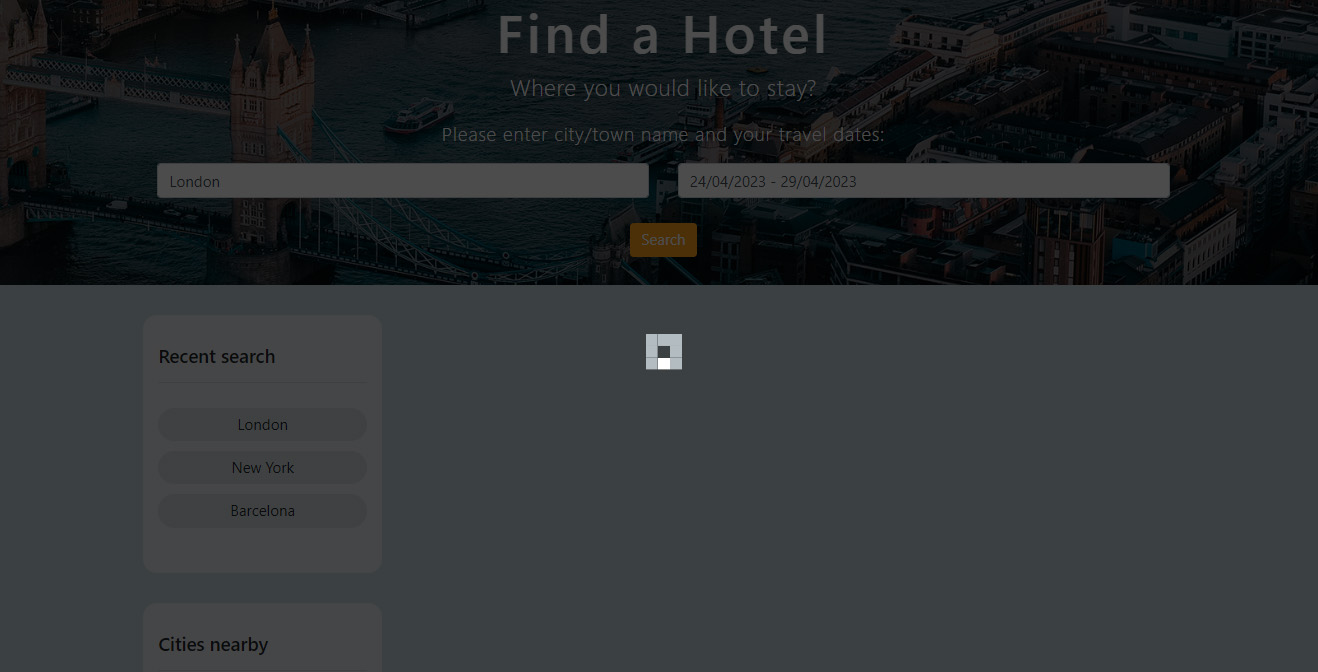
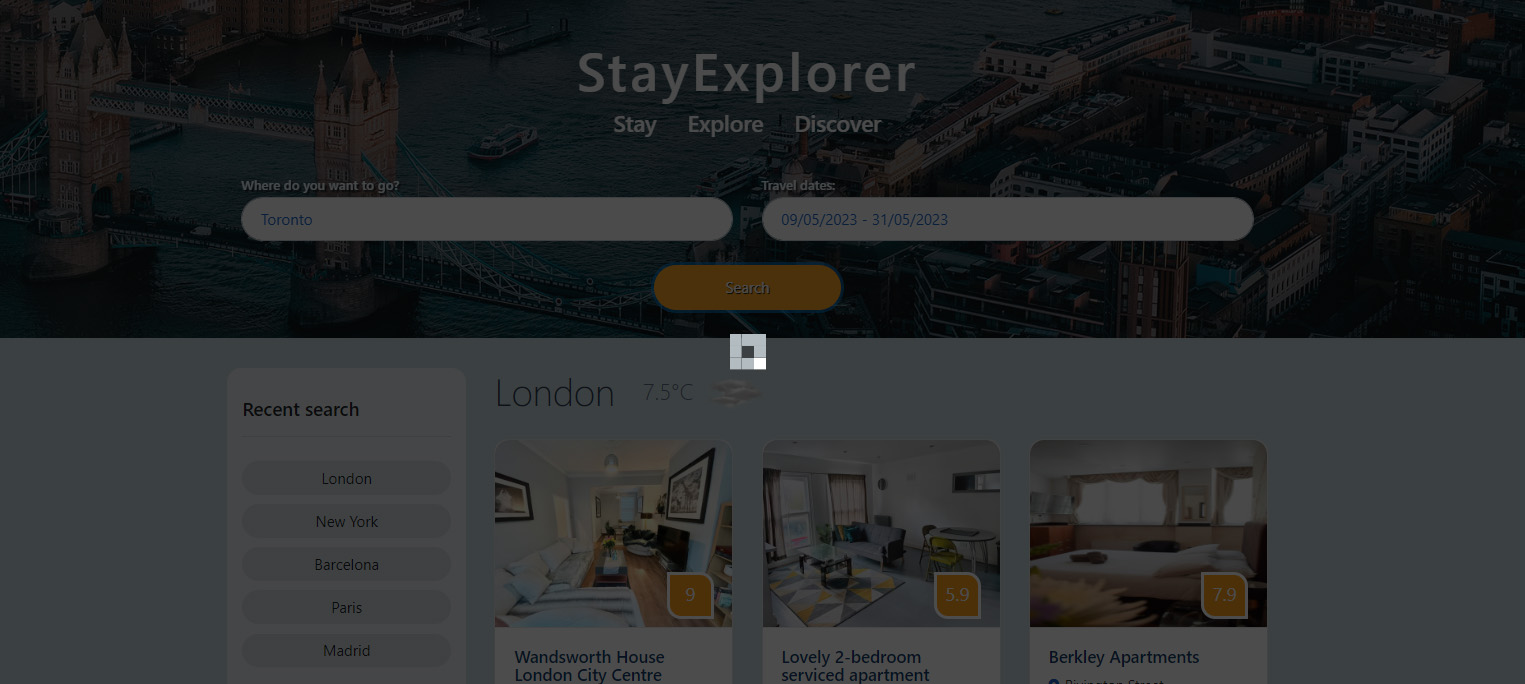
updated readme images

diff --git a/README.md b/README.md
@@ -8,7 +8,7 @@ The landing page shows default city London and available hotels, with default da
 
 ![default landing page](images/landing.jpg)
 
-When user enters their desired destination city and travel dates, clicks search button, the hotels are displayed in desired destination: 
+When user enters their desired destination city and travel dates, clicks search button, the hotels are displayed for desired destination: 
 
 ![another destination](images/other_city.jpg)
 
@@ -28,7 +28,7 @@ One hotel card per horizontal line is displayed on mobile screen:
 
 ![mobile screen](images/mobileScreen.jpg)
 
-
+Recent search and Cities nearby sections are moved to the bottom of the page.
 
 
 ## Languages/libraries/API's used
